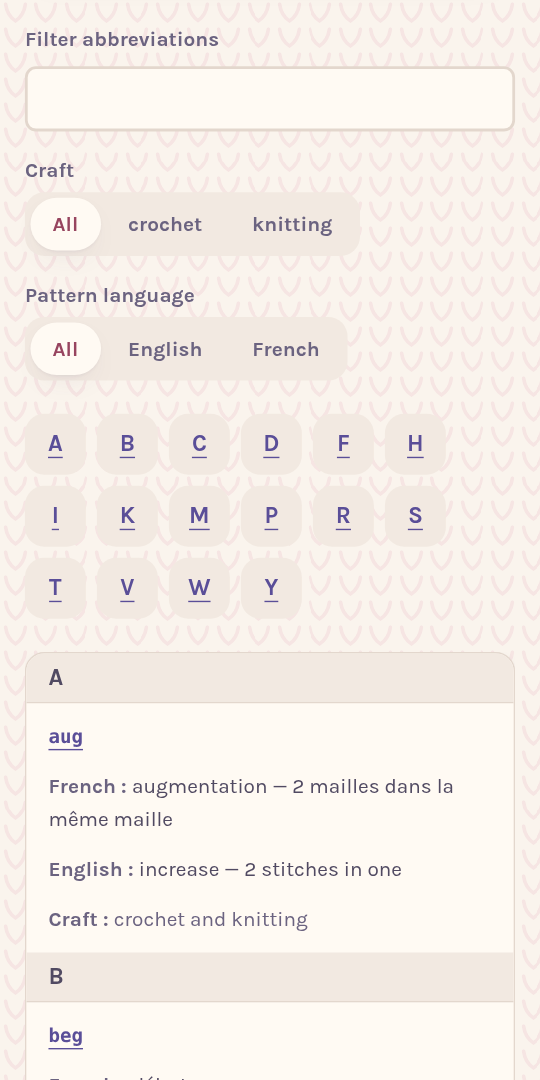
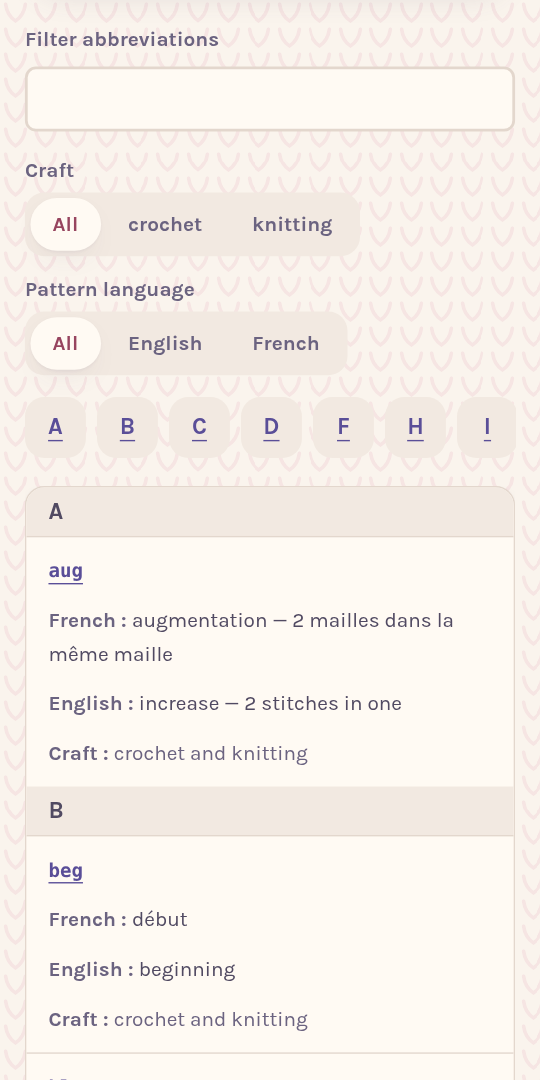
Téléphone : pièces entières, premier terme du glossaire visible (#97)
* Ne plus couper les pièces, montrer un terme du glossaire sur téléphone

Deux défauts relevés sur les captures du Play Store :
- le sélecteur de pièces se réduisait à côté de la taille du texte et
  coupait les noms en plein mot (« Trur », troisième pièce invisible). Les
  pièces gardent leur largeur et passent sur leur propre ligne quand elles
  ne tiennent pas ; sur tablette et ordinateur, la ligne reste commune ;
- le premier écran du glossaire (390 × 844) ne montrait que l'introduction
  et les filtres. L'index des lettres tient sur une ligne qui défile et les
  espacements se resserrent : le premier terme arrive à 785 px au lieu de 880.

Claude-Session: https://claude.ai/code/session_015uRf4RL5xiKyTdJx5Rxfg8

* Reprendre la capture de la page complète avec les pièces entières

Claude-Session: https://claude.ai/code/session_015uRf4RL5xiKyTdJx5Rxfg8

* Laisser une vraie marge au premier terme du glossaire sur téléphone

Le premier terme tenait dans 844 px à quelques pixels près avec les
polices locales, et débordait de 22 px sur le runner de la CI. Intro en
petit corps et libellé « Craft » à gauche de son filtre : le terme finit
à 754 px au lieu de 820, assez pour l'écart de polices d'un environnement
à l'autre.

Claude-Session: https://claude.ai/code/session_015uRf4RL5xiKyTdJx5Rxfg8

---------

diff --git a/e2e/telephone-premier-ecran.spec.ts b/e2e/telephone-premier-ecran.spec.ts
@@ -1,0 +1,34 @@
+import { expect, test } from '@playwright/test';
+import { pageComplete } from './page-complete';
+
+/**
+ * Défauts relevés sur les captures du Play Store (1er octobre) : sur
+ * téléphone, les noms de pièces étaient coupés en plein mot (« Trur » pour
+ * « Trunk »), et le glossaire n'affichait aucun terme dans le premier écran.
+ */
+
+for (const width of [320, 360, 390]) {
+  test(`${width} px : les noms de pièces ne sont pas coupés`, async ({ page }) => {
+    await page.setViewportSize({ width, height: 844 });
+    await pageComplete(page);
+    await page.goto('/');
+    await page.locator('fil-root[data-ready]').waitFor({ state: 'attached' });
+    await page.getByRole('button', { name: 'Example', exact: true }).click();
+    const pieces = page.locator('.pieces');
+    await expect(pieces).toBeVisible();
+    const { visible, total } = await pieces.evaluate((el) => ({
+      visible: el.clientWidth,
+      total: el.scrollWidth,
+    }));
+    expect(total, 'les pièces tiennent sans défiler').toBeLessThanOrEqual(visible + 1);
+  });
+}
+
+test('390 × 844 : le premier terme du glossaire est dans le premier écran', async ({ page }) => {
+  await page.setViewportSize({ width: 390, height: 844 });
+  await page.goto('/glossary');
+  await page.locator('fil-root[data-ready]').waitFor({ state: 'attached' });
+  const premier = page.locator('.glossary-list tbody th[scope="row"]').first();
+  const box = (await premier.boundingBox())!;
+  expect(box.y + box.height).toBeLessThanOrEqual(844);
+});

diff --git a/src/styles/pages.css b/src/styles/pages.css
@@ -292,6 +292,42 @@
     font-weight: 700;
     color: var(--color-text-label);
   }
+  /* Premier écran d'un téléphone : au moins le premier terme doit y être,
+   * pas seulement l'introduction et les filtres. L'index des lettres tient
+   * sur une ligne qui défile, les espacements se resserrent. */
+  fil-glossary-page .hero {
+    margin-bottom: var(--space-5);
+  }
+  fil-glossary-page .hero p {
+    font-size: var(--text-sm);
+  }
+  .glossary-filters {
+    gap: var(--space-2);
+  }
+  /* Libellé à gauche du filtre quand il tient sur la même ligne
+   * (« Craft »), au-dessus sinon (« Pattern language »). */
+  .glossary-filter-group {
+    flex-direction: row;
+    flex-wrap: wrap;
+    align-items: center;
+    column-gap: var(--space-3);
+  }
+  .glossary-letters {
+    flex-wrap: nowrap;
+    overflow-x: auto;
+    margin-top: var(--space-4);
+    padding-bottom: var(--space-1);
+    scrollbar-width: none;
+  }
+  .glossary-letters::-webkit-scrollbar {
+    display: none;
+  }
+  .glossary-letters a {
+    flex: none;
+  }
+  .glossary-table-scroll {
+    margin-top: var(--space-4);
+  }
 }
 
 /* Sigle absent du glossaire (page « lire un patron dans l'autre langue »). */

diff --git a/e2e/lecteur-epure.spec.ts b/e2e/lecteur-epure.spec.ts
@@ -76,7 +76,15 @@ test('un seul bouton de partage, et « Lien copié » s’efface de lui-même', 
   await context.close();
 });
 
-test('taille du texte et pièces sur la même ligne', async ({ page }) => {
+/**
+ * Taille du texte et pièces sur la même ligne dès qu'il y a la place
+ * (demande de Phil). Sur un téléphone, les pièces de l'exemple demandent
+ * 391 px avec la taille du texte pour 358 disponibles : elles passent alors
+ * sur leur propre ligne, entières, plutôt que coupées en plein mot (garde de
+ * `e2e/telephone-premier-ecran.spec.ts`).
+ */
+test('taille du texte et pièces sur la même ligne quand elles y tiennent', async ({ page }) => {
+  await page.setViewportSize({ width: 820, height: 1180 });
   await page.getByRole('button', { name: 'Example', exact: true }).click();
   const pieces = await page.locator('.pieces').boundingBox();
   const size = await page.locator('.reader-tools .text-size').boundingBox();

diff --git a/src/styles/lecteur.css b/src/styles/lecteur.css
@@ -365,6 +365,7 @@ textarea.src-input {
    sont nombreuses, la taille du texte reste à droite, toujours visible. */
 .reader-tools {
   display: flex;
+  flex-wrap: wrap;
   align-items: center;
   gap: var(--space-3);
   margin-bottom: var(--space-4);
@@ -374,9 +375,14 @@ textarea.src-input {
   margin-left: auto;
 }
 
+/* Les pièces gardent leur largeur naturelle : si elles ne tiennent pas à
+   côté de la taille du texte, elles prennent la ligne entière au lieu d'être
+   coupées en plein mot (« Trur » pour « Trunk », sur téléphone). Au-delà de
+   la ligne entière, elles défilent. */
 .pieces {
   display: flex;
-  flex: 1 1 auto;
+  flex: 1 0 auto;
+  max-width: 100%;
   min-width: 0;
   gap: var(--space-2);
   align-items: center;
